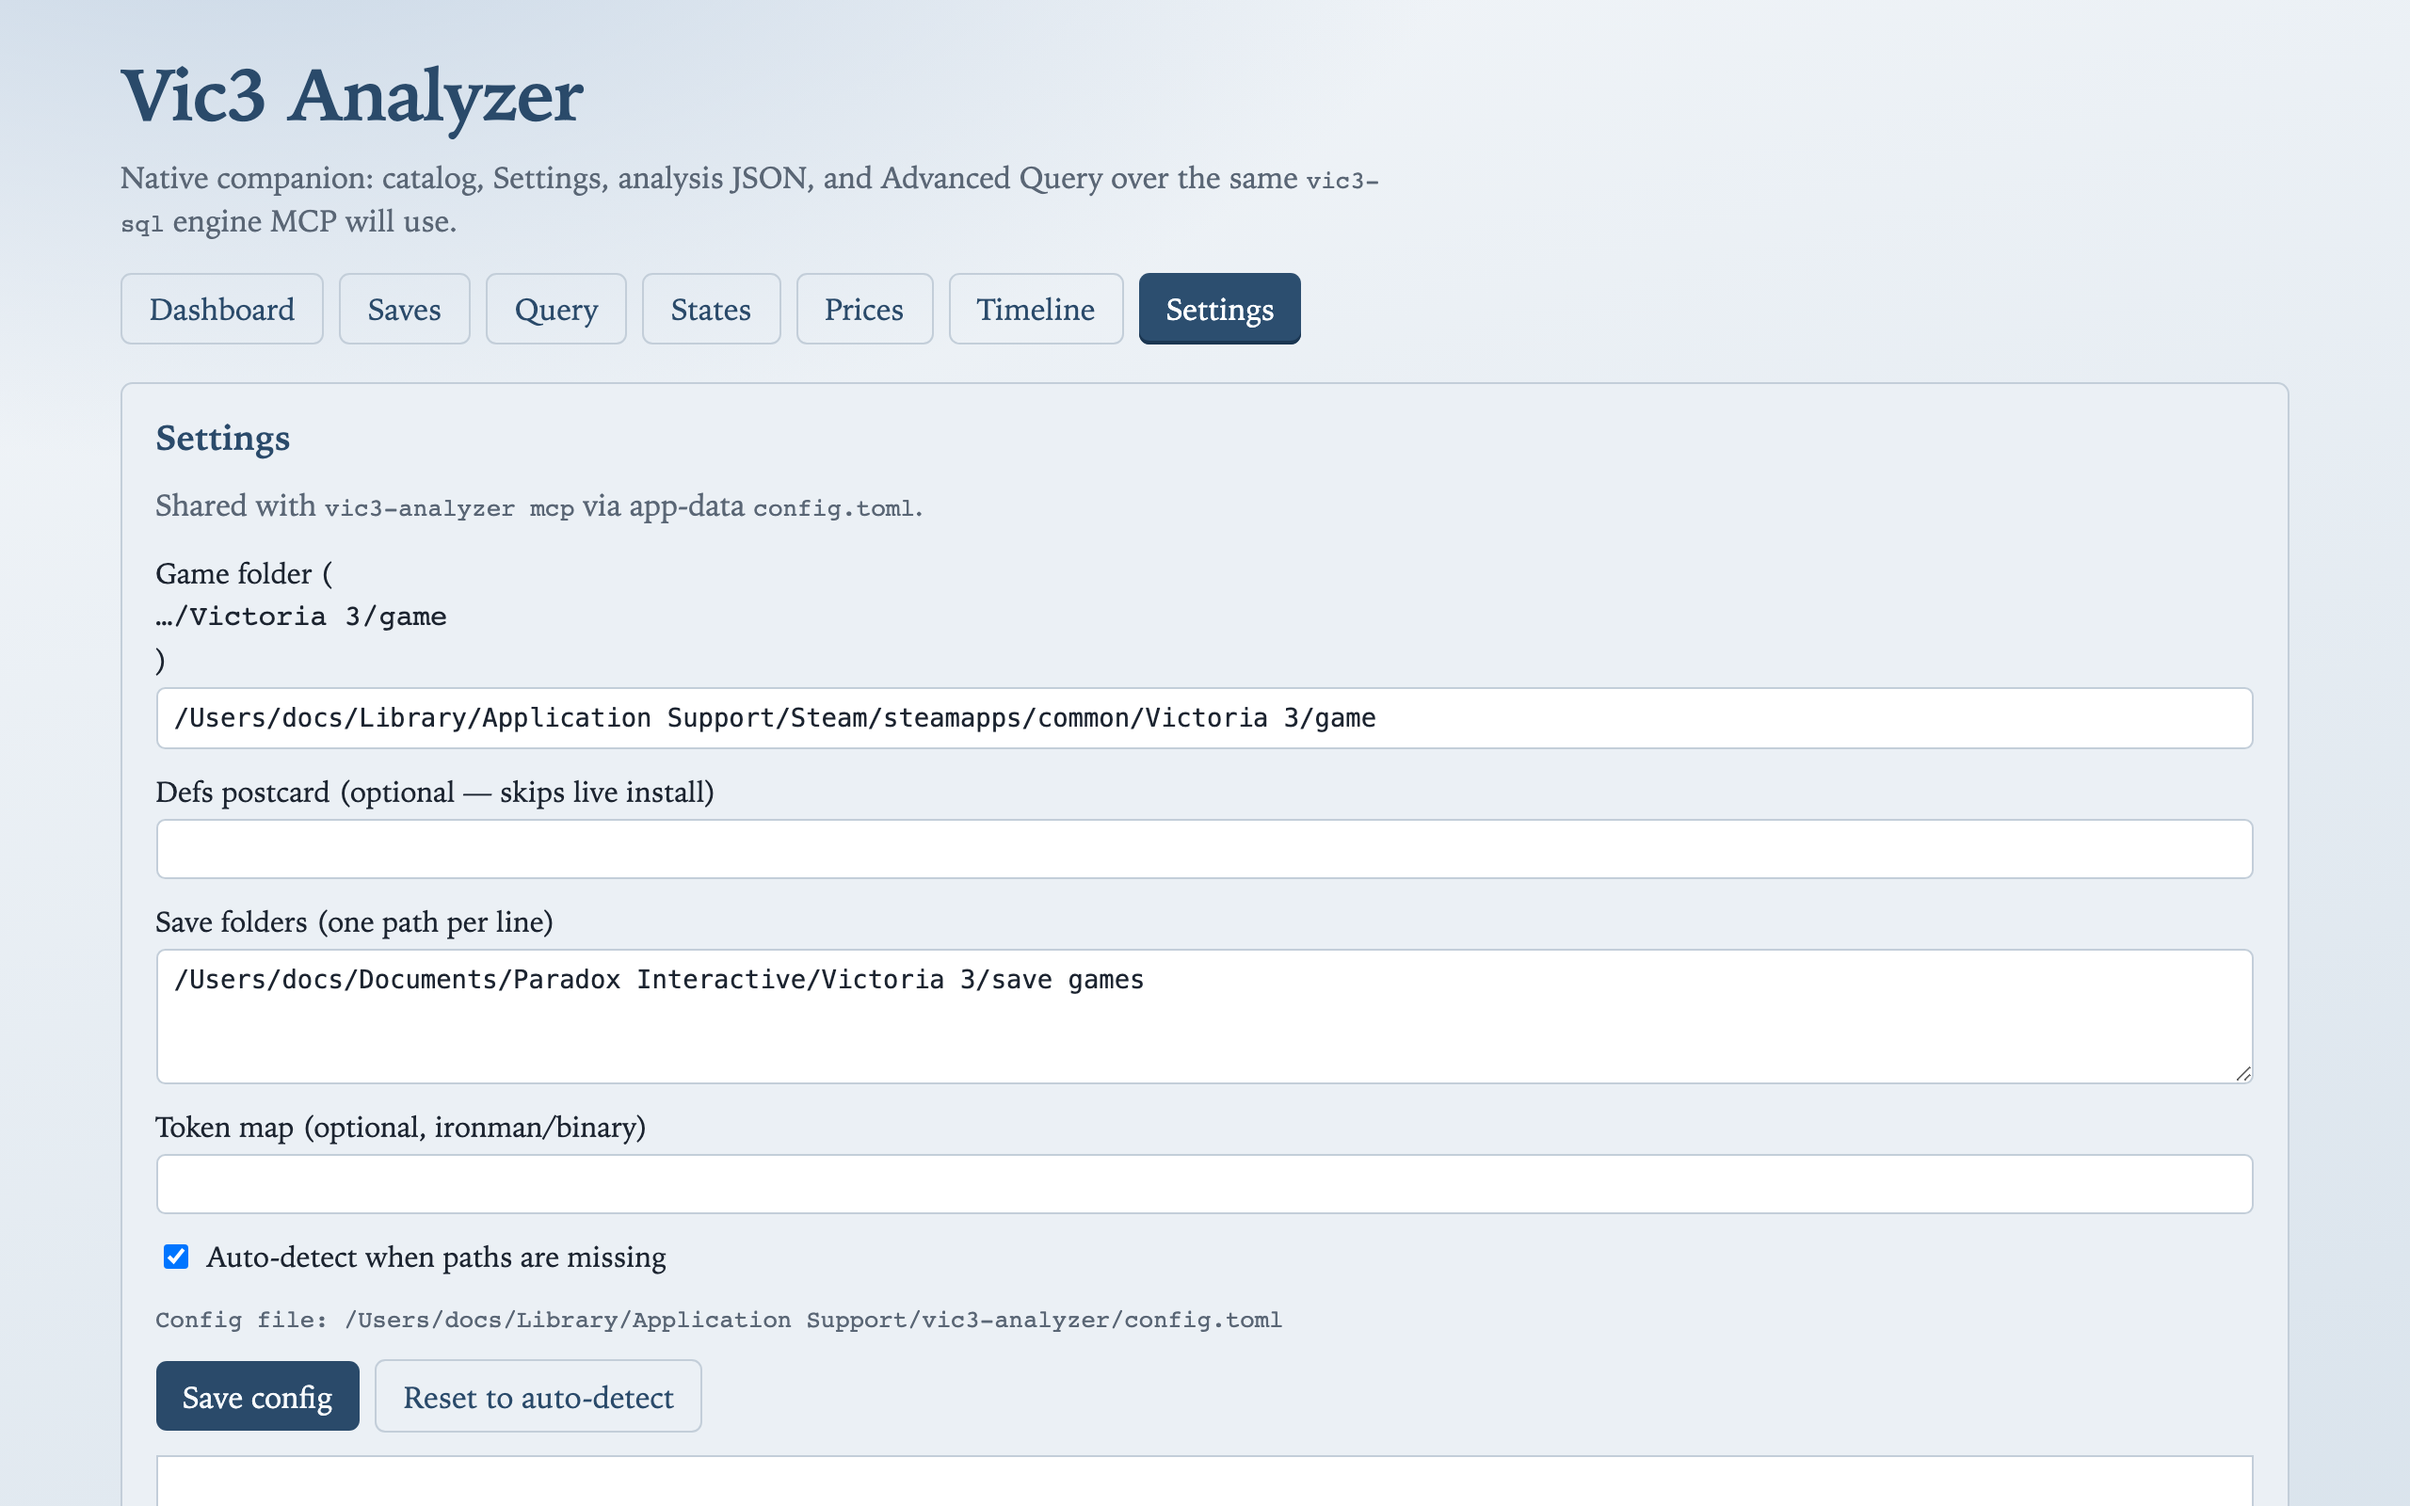
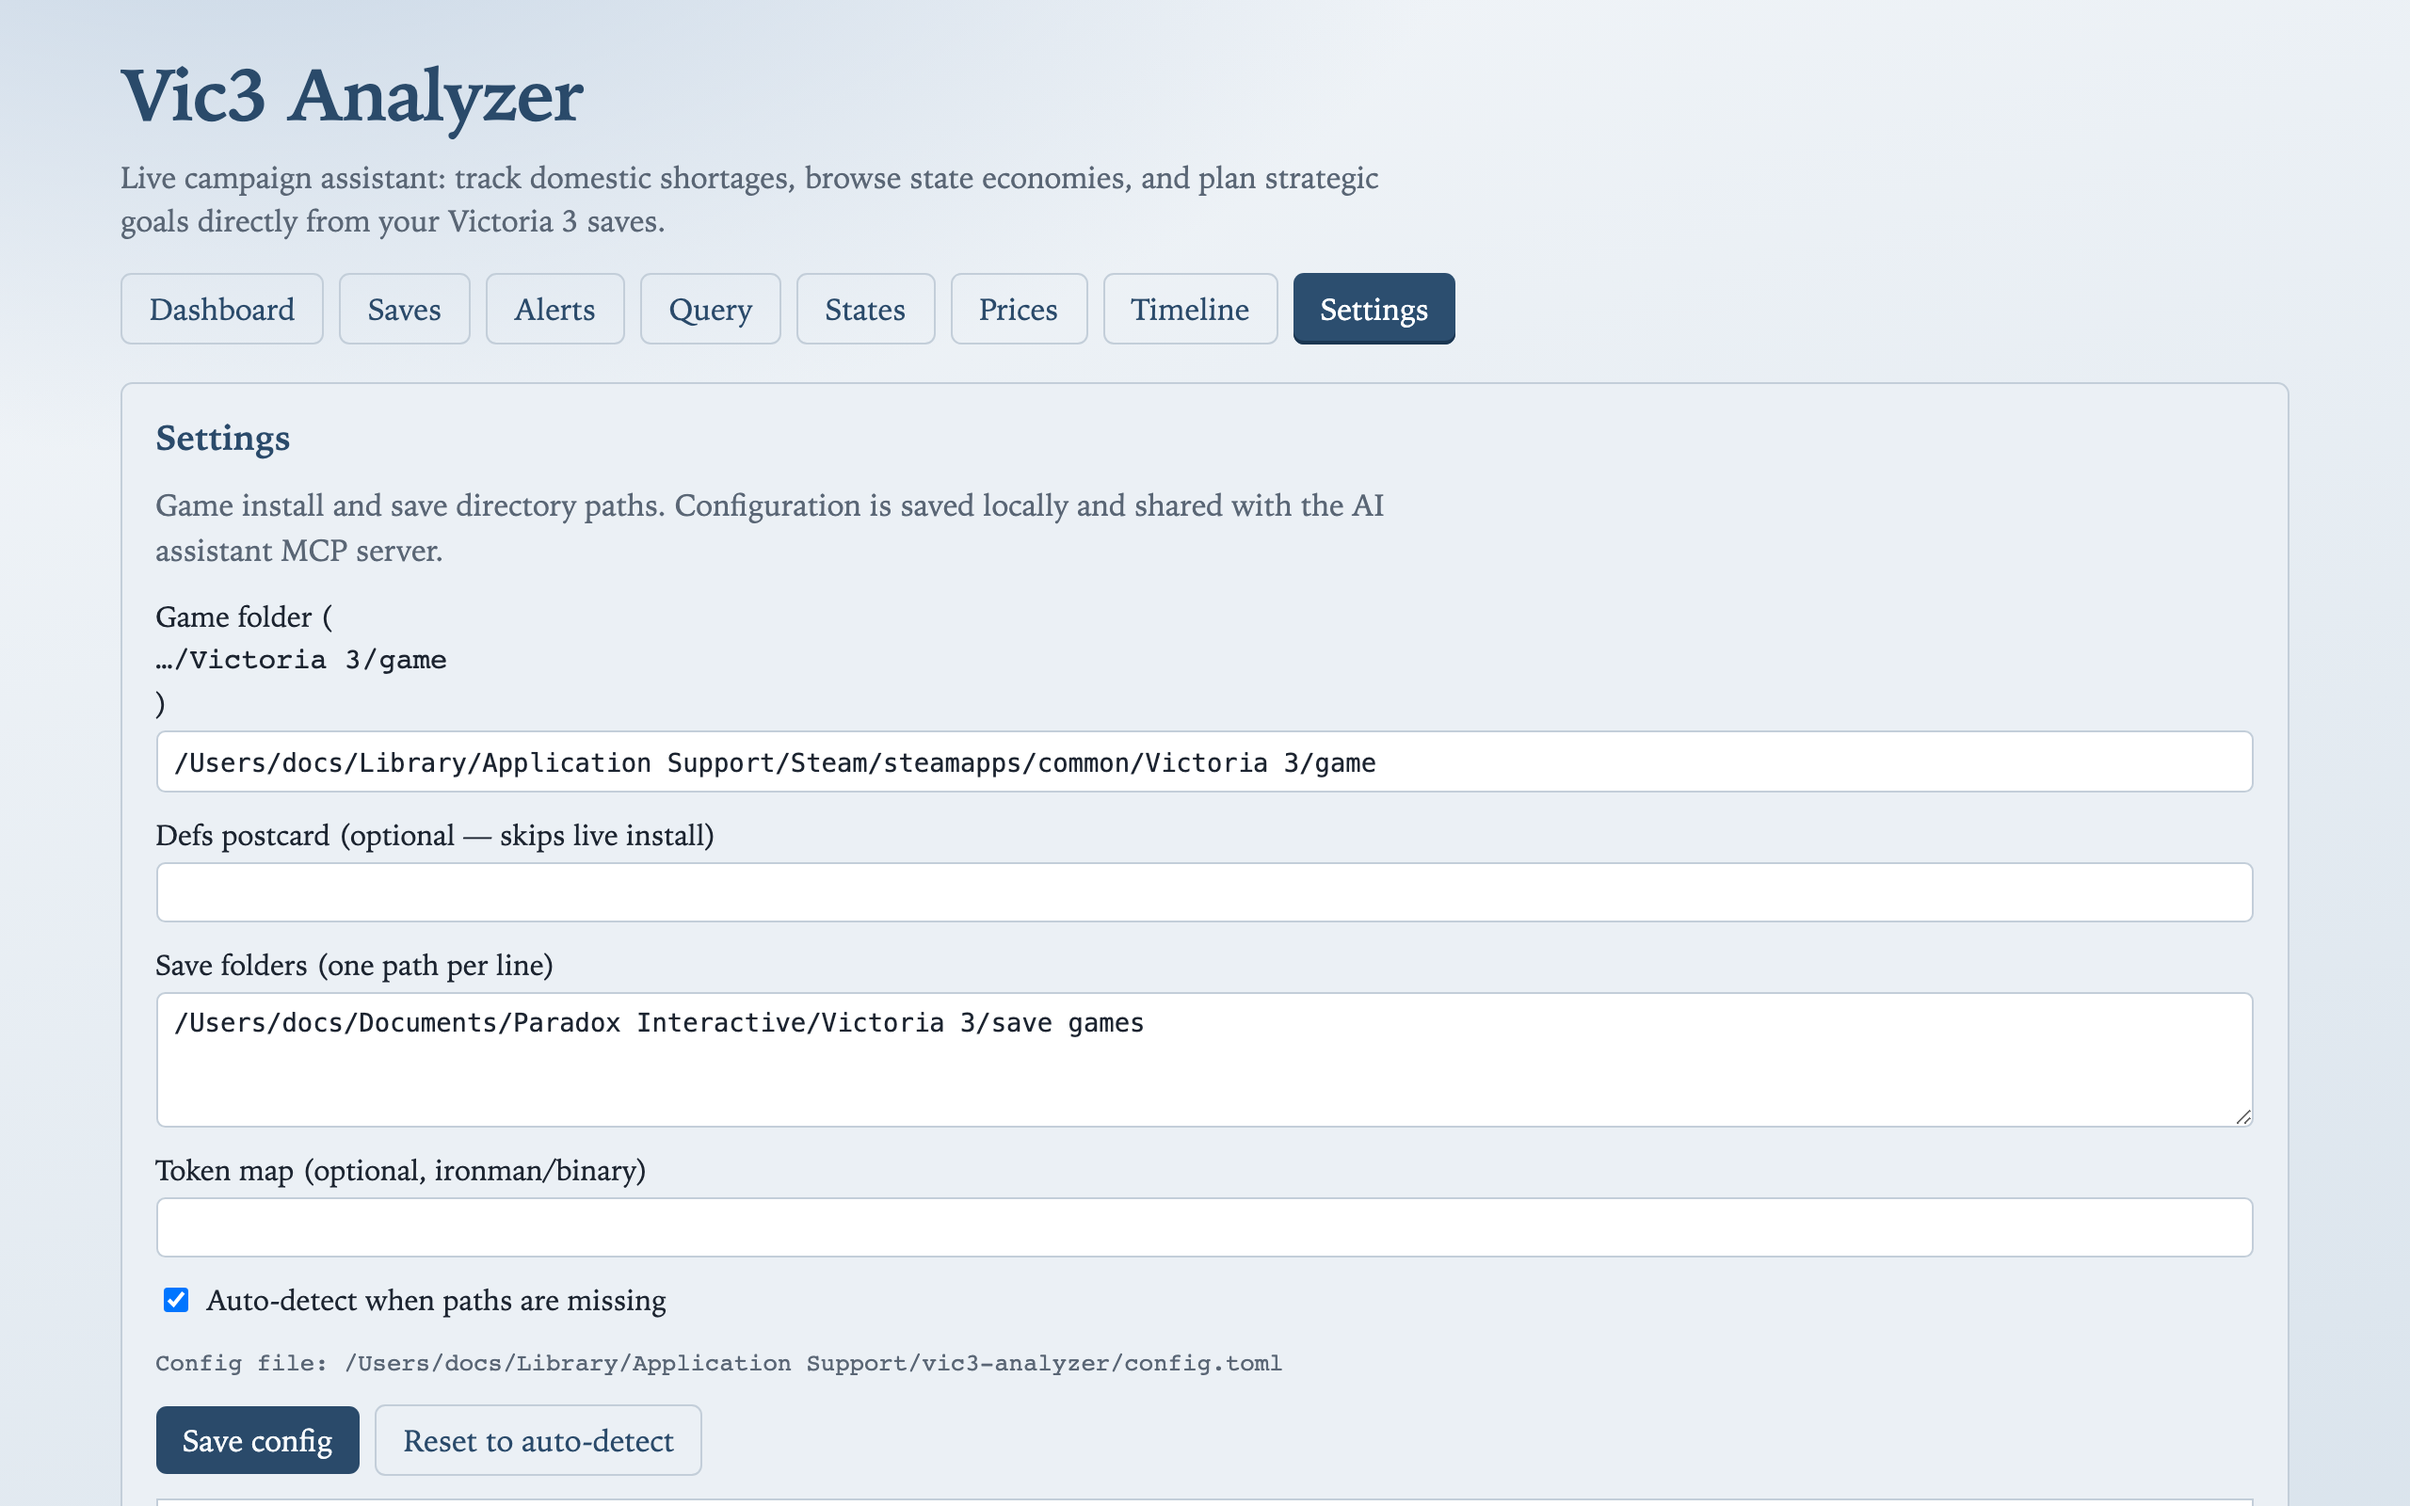
Regenerate desktop screenshots with player-focused in-app copy

diff --git a/crates/vic3-analyzer/ui/index.html b/crates/vic3-analyzer/ui/index.html
@@ -458,7 +458,7 @@
         <div class="actions" style="margin-bottom: 0.75rem">
           <button type="button" id="refresh-saves">Refresh list</button>
           <button type="button" class="ghost" id="load-prices" disabled>Loaded prices</button>
-          <button type="button" class="ghost" id="load-alerts" disabled>Loaded alerts</button>
+          <button type="button" class="ghost" id="open-alerts" disabled>Open Alerts</button>
         </div>
         <div style="overflow-x: auto">
           <table>
